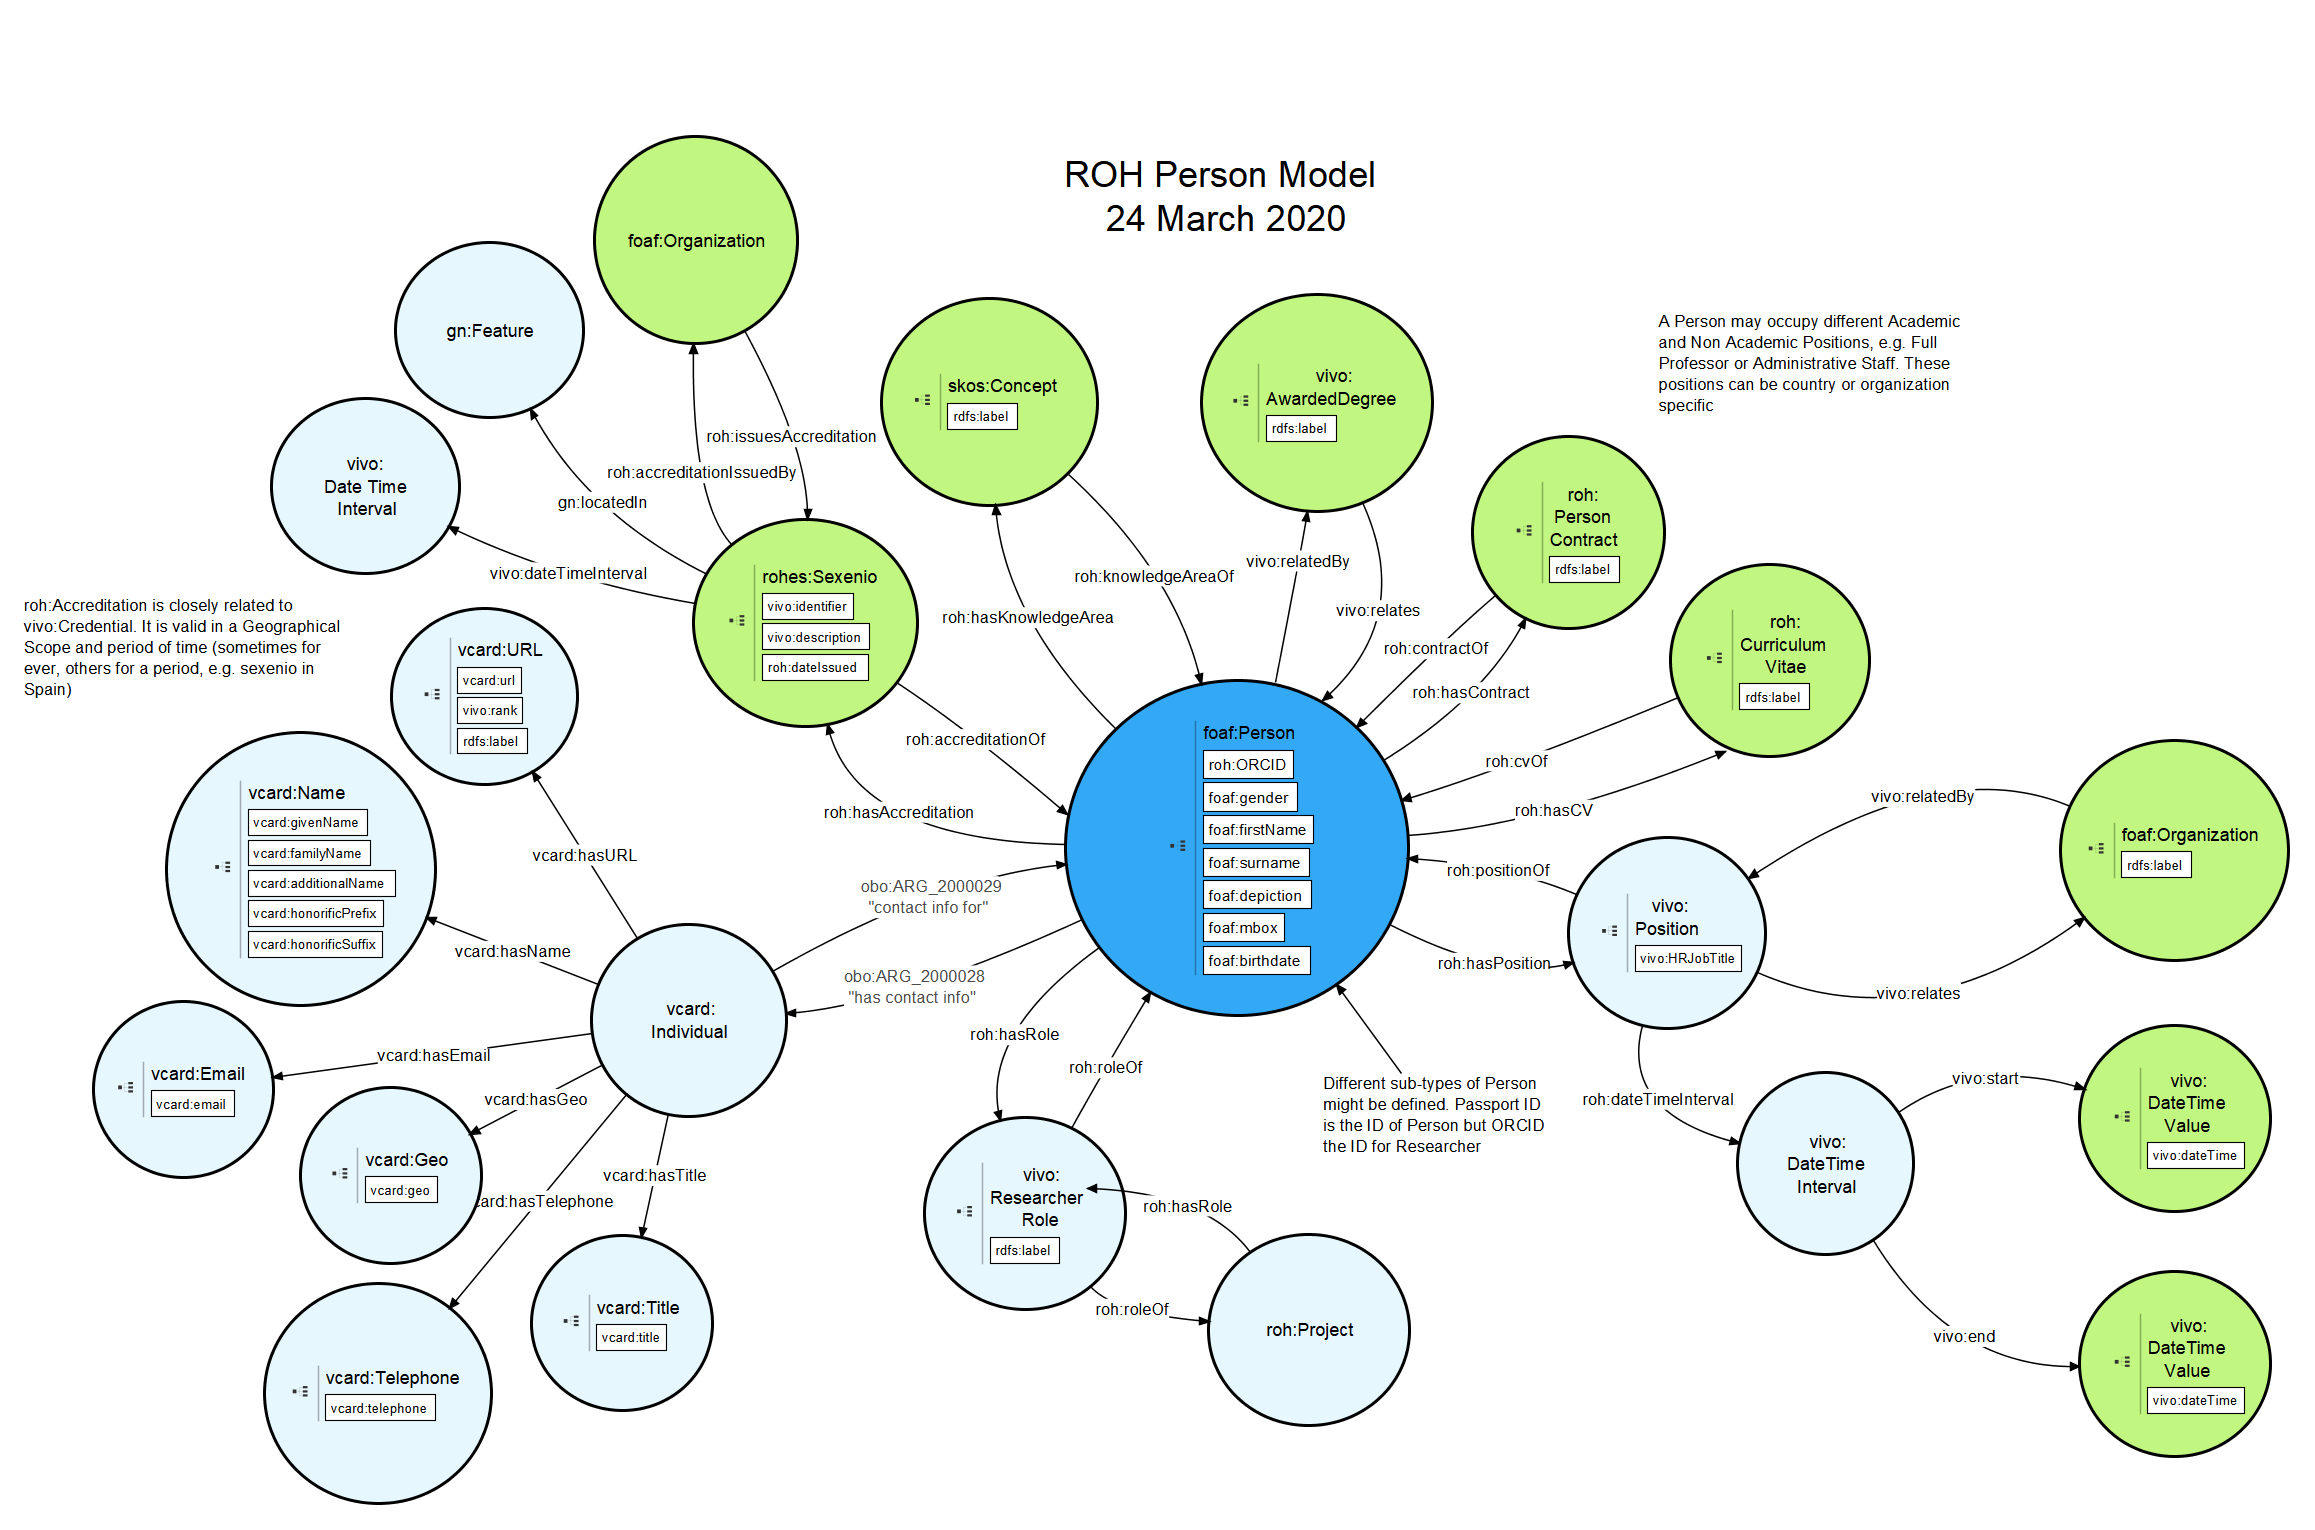
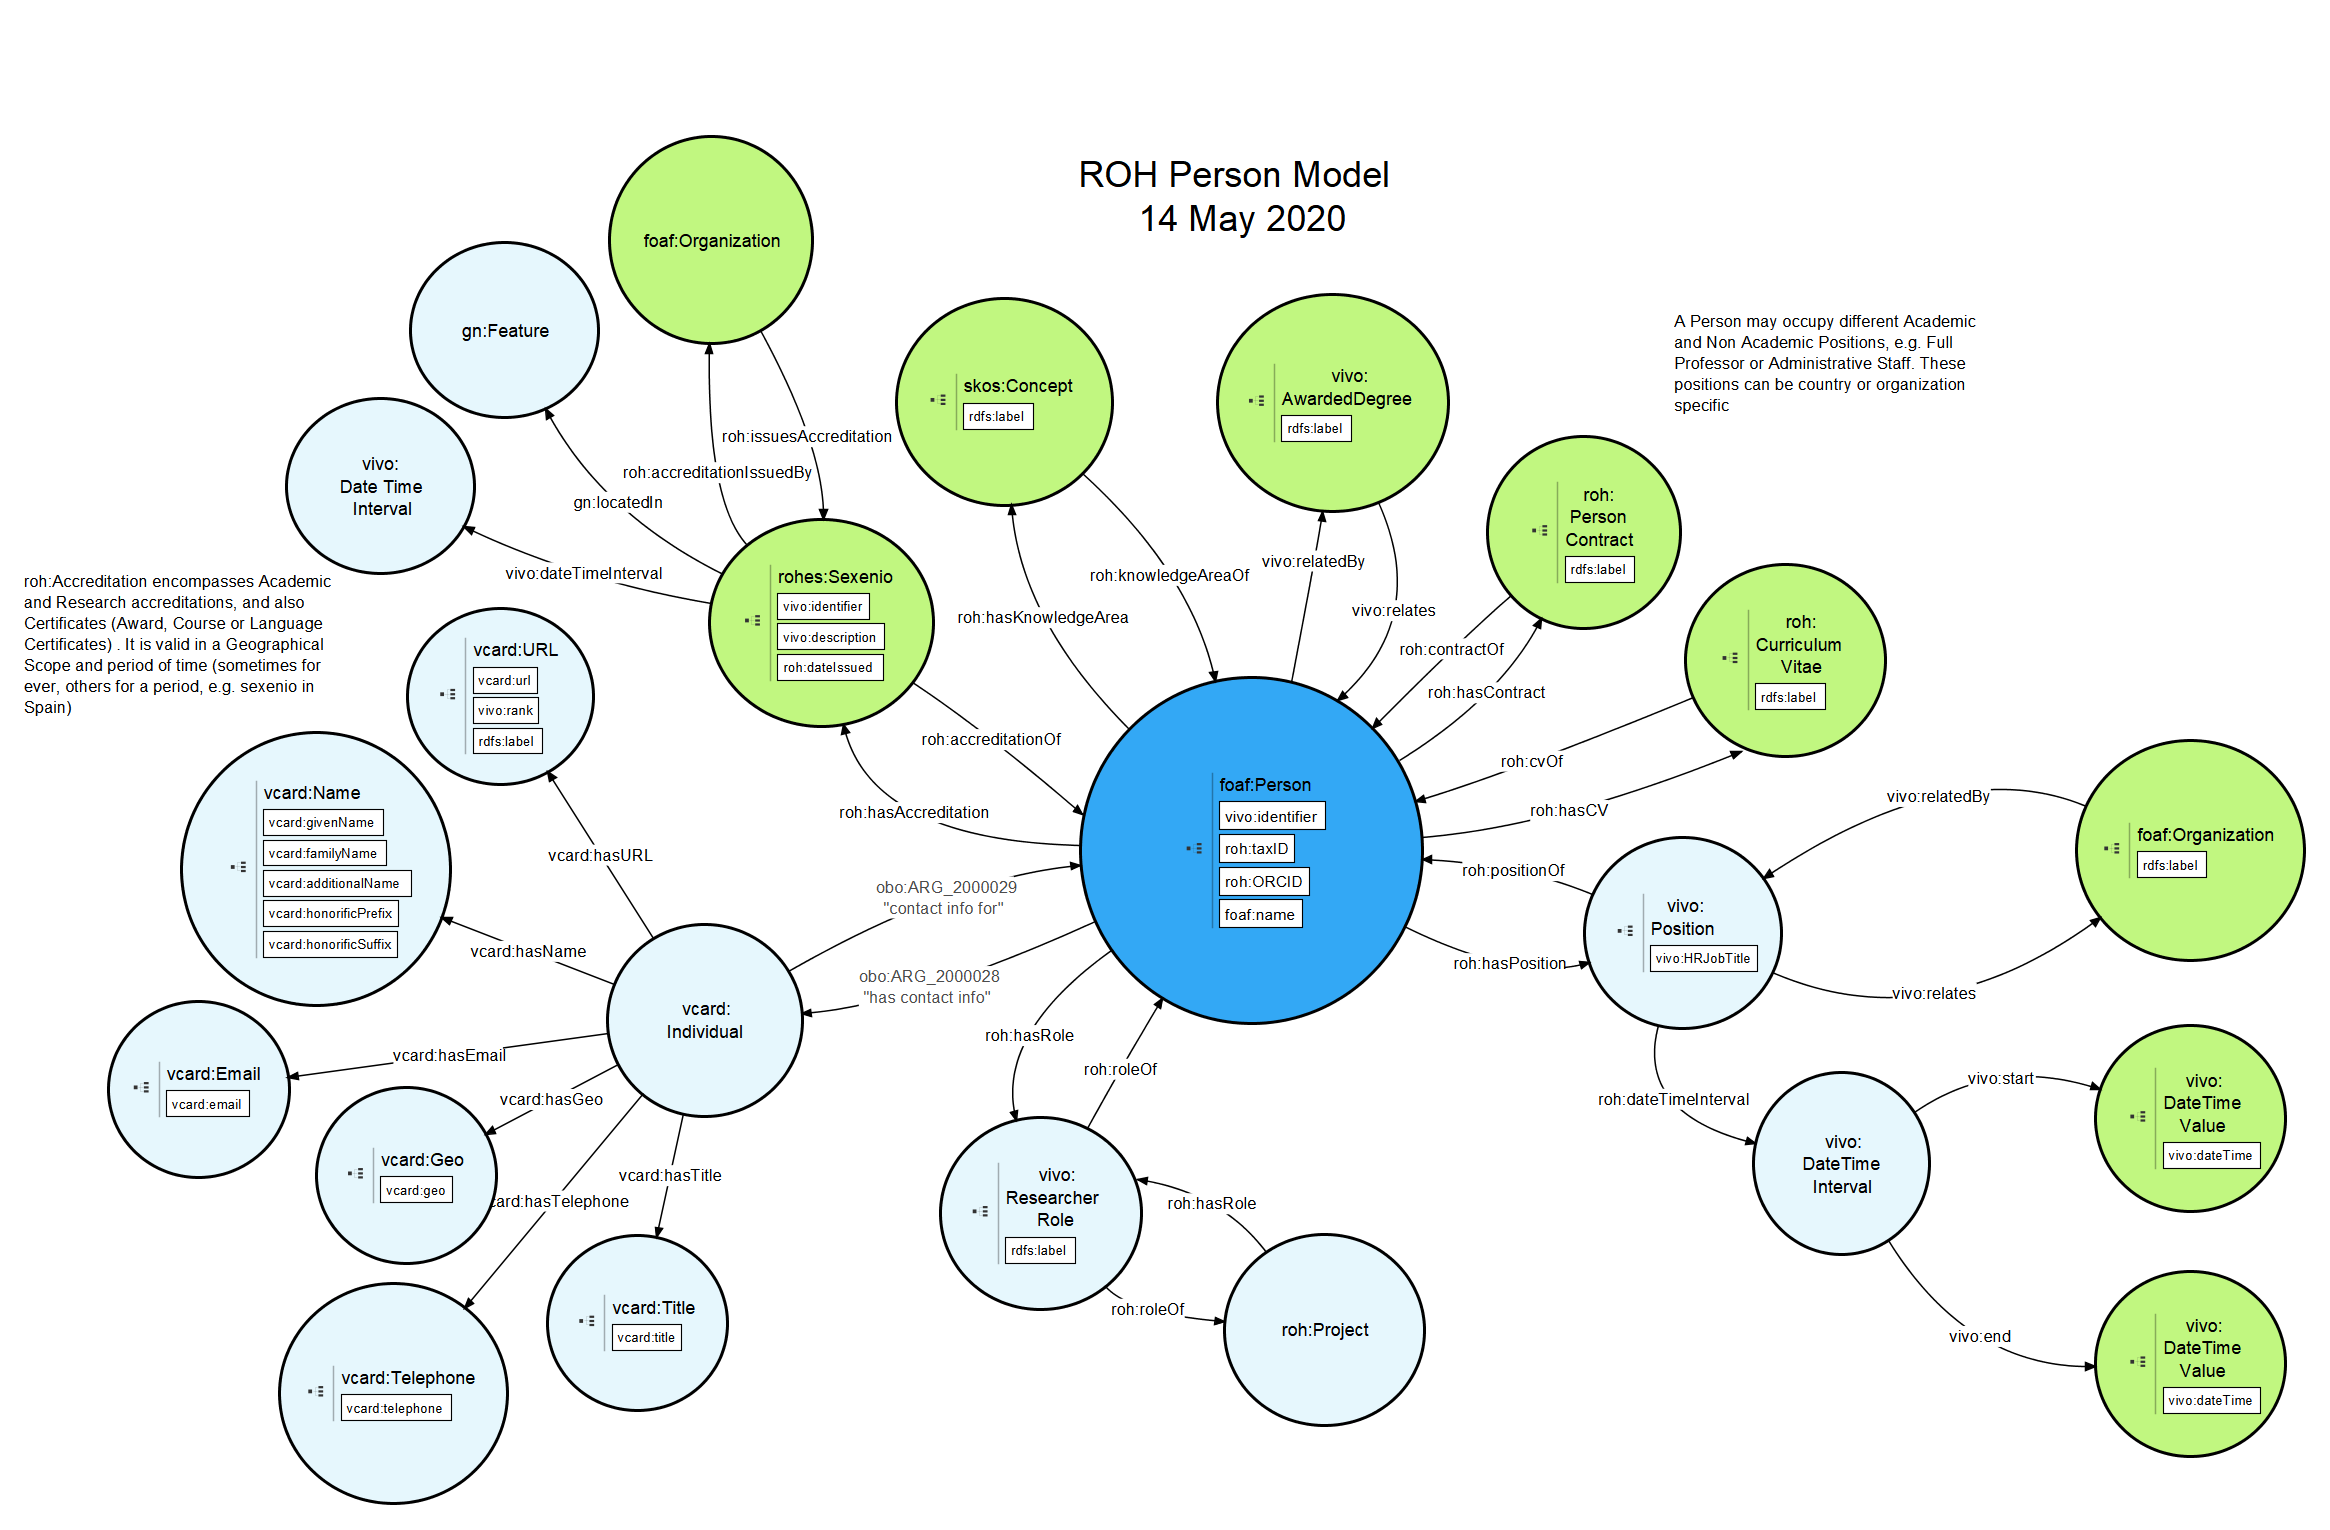
updated documentation vivo:Project

diff --git a/Documentation/README.md b/Documentation/README.md
@@ -156,9 +156,11 @@ vivo:Project:
 In ROH, there is a foaf:Person entity (see Figura 3) that inherits from
 foaf:Agent. The specialization of this entity imported from the VIVO
 ontology already adds some DataType properties of the research domain,
-but in ROH we also incorporate roh:taxID, roh:ORCID, vivo:researcherId or vivo:scopusId (all of them are subtypes of vivo:identifier, a given person may use or several alternatives of those identifiers) and also several
-object specific properties of the research domain as \"has a Role\"
-(roh: hasRole) in an Organization, \"has a CurriculumVitae\"
+but in ROH we also incorporate roh:taxID, roh:ORCID, vivo:researcherId
+or vivo:scopusId (all of them are subtypes of vivo:identifier, a given
+person may use or several alternatives of those identifiers) and also
+several object specific properties of the research domain as \"has a
+Role\" (roh:hasRole) in an Organization, \"has a CurriculumVitae\"
 (roh:hasCV), \"has some Accreditations\" (roh:hasAccreditation), \"has
 an Employment Contract\" (roh:hasContract), \"has some Knowledge Areas\"
 (roh:hasKnowledgeArea) or \"has some Roles\" (roh:hasRole) in Projects
@@ -168,21 +170,26 @@ Project over time.
 
 As mentioned above, foaf:Person in ROH is based on FOAF (Friend of a
 Friend \[2\], following patterns used in VIVO. That explains why it
-includes some of the basic FOAF properties such as foaf:name, foaf:nick,
-foaf:title, foaf:mbox (note that this in fact an object property),
-foaf:img (note that this in fact an object property), vivo:description,
-foaf:firstName and foaf:surname. However, it considers all attributes
-and links defined in CERIF through the cfPers entity. foaf:Person
-incorporates the following data properties declared as attributes in
-cfPers, especially: identifier (vivo:identifier but preferrably
-roh:ORCID), roh:birthdate, foaf:gender, foaf:homepage (note that this in
-fact an object property), roh:researchLine, vivo:keywords. Some
-important CERIF relationships that have also been adopted: Curriculum
-Vitae (roh:hasCV) which links foaf:Person with roh:CurriculumVitae,
-Event (roh:Activity) and Indicator (roh:Accreditation).
+includes some of the basic FOAF properties such as foaf:name,
+foaf:nickname, foaf:title, foaf:mbox (note that this in fact an object
+property), foaf:img (note that this in fact an object property),
+vivo:description, foaf:firstName, foaf:surname, and
+rohes:secondFamilyName (for countries using two surnames). However, it
+considers all attributes and links defined in CERIF through the cfPers
+entity. foaf:Person incorporates the following data properties declared
+as attributes in cfPers, especially: identifier (vivo:identifier but
+preferrably roh:ORCID), roh:birthdate, foaf:gender, foaf:homepage (note
+that this in fact an object property), roh:researchLine,
+vivo:freeTextKeyword. Some important CERIF relationships that have also
+been adopted: Curriculum Vitae (roh:hasCV) which links foaf:Person with
+roh:CurriculumVitae, Event (roh:Activity) and Indicator
+(roh:Accreditation).
 
 Besides, an instance of a foaf:Person is associated to the following
 entities through object properties:
+
+-   vivo:AwardedDegree, where a researcher vivo:relates with an
+    roh:AcademicDegree
 
 -   roh:Accreditation, where a researcher roh:hasAccreditation of
     different types, e.g. roh:ResearchAccreditation or
@@ -191,12 +198,10 @@ entities through object properties:
 -   roh:Activity, where a researcher roh:participates in diverse
     activities, e.g. vivo:InvitedTalk or bibo:Conference.
 
--   vivo:AwardedDegree, where a researcher vivo:relates with an
-    roh:AcademicDegree
-
 -   roh:CorrespondingAuthor, where a researcher is the
     roh:correspondingAuthor of different subtypes of roh:ResearchObject,
-    e.g. obo:JournalArticle, vivo:ConferencePaper or bibo:Proceedings.
+    e.g. obo-iao:JournalArticle, vivo:ConferencePaper or
+    bibo:Proceedings.
 
 -   roh:CurriculumVitae, where a researcher roh:hasCV which includes
     data type properties like roh:cites, roh:factorH or roh:summary
@@ -211,17 +216,22 @@ entities through object properties:
     organization linking it to any of the vivo:Position subclasess like
     vivo:FacultyAdministrativePosition or vivo:FacultyPosition.
 
--   roh:Role, where a foaf:Agent, i.e. and its subclasses like
-    foaf:Person or roh:Researcher, roh:hasRole like vivo:ResearcherRole
-    or vivo:TeacherRole either in a roh:Project or a foaf:Organization.
+-   roh:Role, where a foaf:Agent may roh:hasRole like
+    vivo:ResearcherRole or vivo:TeacherRole either in a vivo:Project or
+    a foaf:Organization.
 
 -   roh:PersonContract, where a researcher roh:hasContract described
     according to the attributes corresponding to parent class
     vivo:Contract.
 
--   bibo:Thesis, where a researcher is roh:supervisor of a bibo:Thesis,
-    concretely, any of its subtypes subclasess like roh:MasterThesis or
-    roh:PhDThesis.
+-   bibo:Thesis, where a researcher is roh:supervisorOf of a
+    bibo:Thesis, concretely, any of its subtypes subclasess like
+    roh:MasterThesis or roh:PhDThesis.
+
+The following table fully describes the object and data properties
+defined within the foaf:Person entity in ROH.
+
+![](.//media/2.roh-person-table.png) 
 
 ![](.//media/2.roh-person.png)
 
